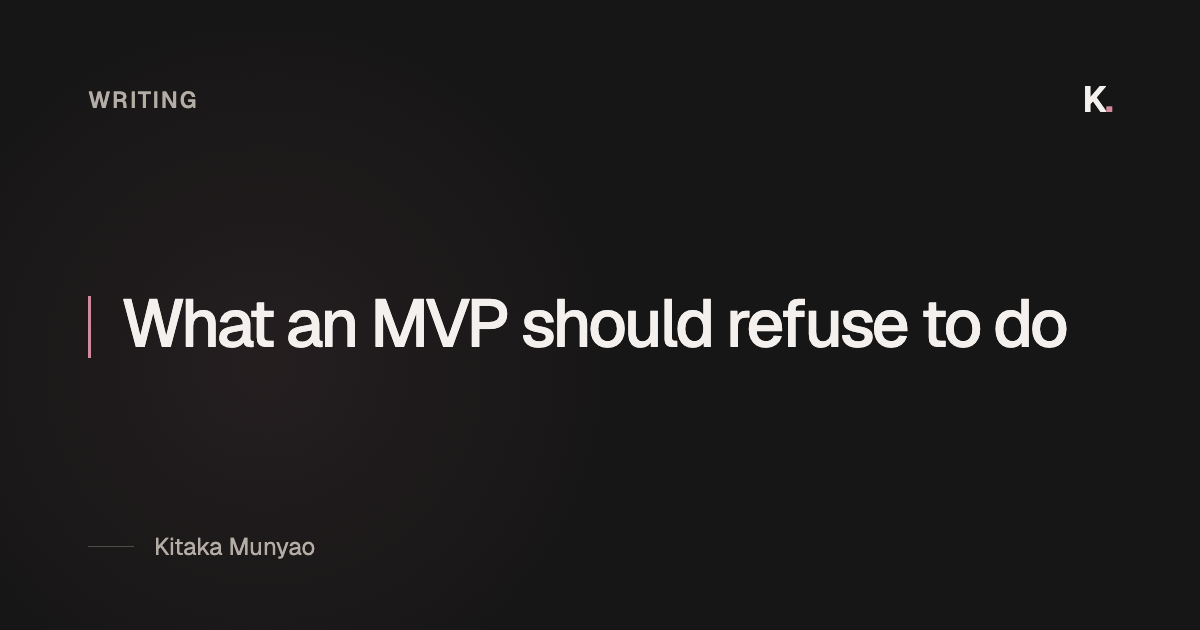
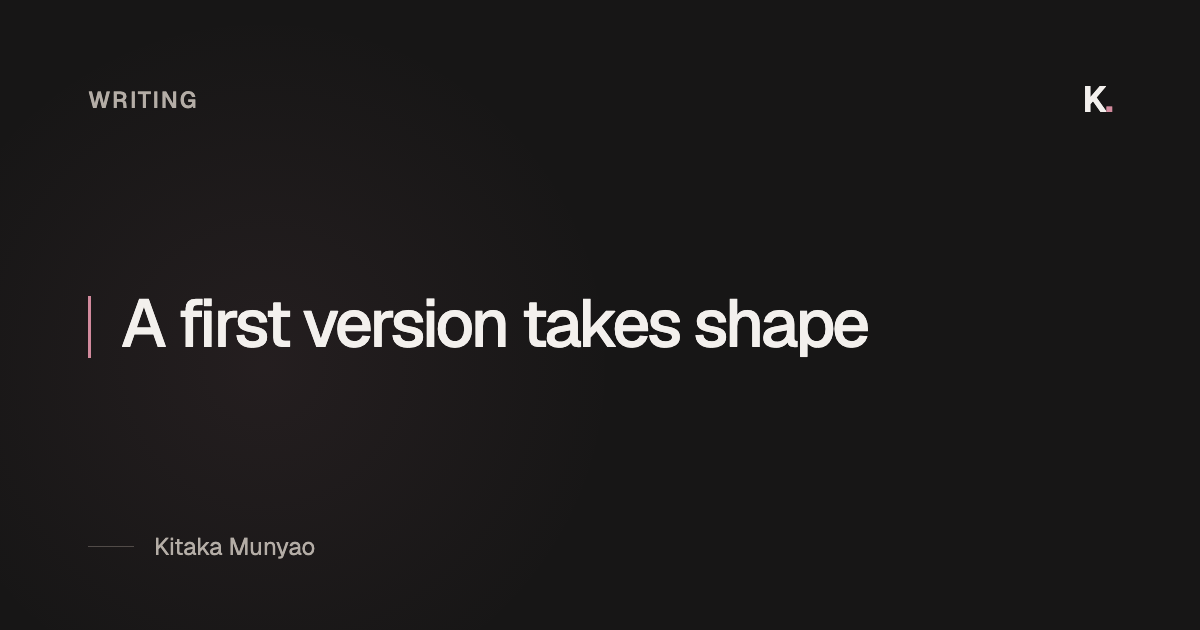
refactor(writing): ground MVP article in product decisions

Changed region(s): [[0.0925, 0.4524, 0.8942, 0.573]]

diff --git a/src/content/articles/what-an-mvp-should-refuse.ts b/src/content/articles/what-an-mvp-should-refuse.ts
@@ -3,125 +3,121 @@ import type { Article } from "./types";
 export const whatAnMvpShouldRefuse: Article = {
   slug: "what-an-mvp-should-refuse",
 
-  title: "What an MVP should refuse to do",
+  title: "A first version takes shape",
 
   description:
-    "Why building a useful first product means making deliberate decisions about what it will not do yet.",
+    "Notes from building a private product around one accountability loop before its first pilot.",
 
   publishedAt: "2026-09-02",
 
-  readingTime: "7 min read",
+  readingTime: "5 min read",
 
   sections: [
     {
       type: "paragraphs",
       paragraphs: [
-        "I am building a private MVP around a real operational problem. The product is still in development, which means there are more things it could become than things it needs to be today.",
-        "That makes adding features surprisingly easy to justify. A messaging system could keep conversations in one place. Payment processing could remove a manual step. Notifications, imports, analytics, integrations, and AI could each make part of the experience feel more complete.",
-        "None of those ideas is inherently bad. The problem is that every one of them asks the product to carry another assumption before the central workflow has been proved useful.",
-        "I have therefore spent as much time deciding what the MVP should refuse to do as deciding what it should include.",
+        "The product began with a coaching operations problem, not a missing fitness feature. The information needed to run the work lived in too many places: conversations, spreadsheets, notes, payment records, and other applications.",
+        "The useful morning question was much more direct: who is training today, who completed their work, who has not checked in, who needs a response, and whose package or payment needs attention?",
+        "Once I began building, nearly every part of that question suggested another product. Conversation suggested chat. Payment records suggested payment processing. Progress suggested analytics. Repeated administration suggested automation. A future client list suggested bulk imports and a platform for more than one coach.",
+        "The hard part hasn't been thinking of features. It has been deciding which ideas would help test the product and which would keep me from knowing whether the basic thing was useful.",
       ],
     },
 
     {
       type: "paragraphs",
-      heading: "Refusal is not a lack of ambition",
+      heading: "The prototype made everything look close",
       paragraphs: [
-        "An MVP is often described as the smallest version of a product that can be released. That can make scope reduction sound like subtraction: begin with the complete idea, then remove features until it fits the available time.",
-        "I find it more useful to begin with the change the product needs to make possible. In this case, the important loop is simple: work is assigned, the person completing it records useful information, the person responsible can see what needs attention, and both can understand what should happen next.",
-        "A feature belongs in the first product only if that loop depends on it or if leaving it out would create an unacceptable risk. Everything else needs to earn its way back in.",
-        "Refusing work is therefore not about making the product less ambitious. It protects the question the MVP exists to answer from being buried beneath several easier but less important questions.",
+        "The prototype became broad quite quickly. It had a dashboard, clients, workouts, check-ins, progress, a calendar, and payment views. Typed fictional records made the complete experience inspectable before a database or authentication existed.",
+        "That helped the coach and me discuss the shape of the product. It also made the product look further along than it was. A screen backed by a fixture can make a workflow feel almost finished. Persistence asks less visible questions: who owns this record, who may change it, what happens to its history, what should be derived rather than stored, and what happens when an operation fails halfway through?",
+        "Moving from prototype screens to persistent client workflows made the difference between visible scope and operational scope difficult to ignore. The interface was not a list of nearly completed features. It was a map of decisions still waiting to be made.",
       ],
     },
 
     {
       type: "paragraphs",
-      heading: "Do not rebuild what already works",
+      heading: "The loop I need to prove",
       paragraphs: [
-        "The product's users already have ways to talk to one another. Their conversations may be spread across tools, but replacing those tools is not the problem I am currently trying to solve.",
-        "Building chat would introduce message delivery, notifications, attachments, moderation, retention, privacy, and expectations about response time. A small text box would be easy to draw and much harder to support responsibly.",
-        "For the MVP, structured information belongs in the product, and general conversation can continue through an existing messaging service. A clear route out of the product is enough.",
-        "That boundary may eventually feel inconvenient. If people repeatedly lose important context between the two places, that would be evidence for reconsidering it. Until then, rebuilding a familiar communication tool would add surface area without proving the central idea.",
+        "I eventually reduced the first product to an accountability loop. A coach assigns work. A client sees what to do and records what happened. The coach can distinguish ordinary progress from something requiring attention. Both can see enough context to decide what happens next.",
+        "That loop still contains difficult work. A skipped workout is not the same as one the system considers missed. A report of pain should become visible without turning the product into a diagnostic tool. A corrected submission should not quietly erase what was shared before it. Attention needs a reason a person can understand, not an unexplained score.",
+        "That became my working boundary: if the accountability loop does not depend on something, it has to justify why it belongs in the first release.",
       ],
     },
 
     {
       type: "paragraphs",
-      heading: "Record a process before trying to own it",
+      heading: "WhatsApp can stay",
       paragraphs: [
-        "Payments created a similar decision. The product needs to show what was paid, what remains outstanding, and when a renewal may need attention. It does not need to move money to test whether that information helps someone run the work.",
-        "Recording an externally received payment supports the operational workflow. Processing one would add provider integration, failure recovery, reconciliation, refunds, security obligations, and a much larger consequence when something goes wrong.",
-        "The distinction matters beyond payments. A product can help someone understand and coordinate an existing process before it automates the process itself. That often provides enough value to test the underlying model while keeping the most consequential actions where they already work.",
+        "The coach and client already know how to talk to one another. Building chat would not prove that the accountability loop works. It would also require message delivery, notifications, attachments, retention, privacy, and expectations about response time.",
+        "The boundary I chose is narrower. Structured check-ins, workout feedback, and coach responses belong in the product because they affect the shared record. General conversation can remain in WhatsApp, with a clear route there when it is needed.",
+        "This is not automatically the correct long-term boundary. If the pilot shows that people repeatedly lose important context between the two places, the decision should change. For now, an existing tool carries the part of the problem the MVP does not need to own.",
       ],
     },
 
     {
       type: "paragraphs",
-      heading: "Do not collect data simply because it may be useful",
+      heading: "Recording payments is enough for now",
       paragraphs: [
-        "The MVP may eventually hold personal, health-related, and financial information. That makes an apparently useful field more than a design choice. If the product collects that information, it becomes responsible for who can see it, how long it remains, how it is corrected, how it is backed up, and what happens when access should end.",
-        "Authentication is only the beginning. Authorisation has to follow the person and the record through every read and write. Private information must not appear in another role's view merely because the interface hides the field. Retention, recovery, and operational access still need deliberate answers.",
-        "The project therefore uses fictional data while those boundaries are being built and reviewed. Progress photos, real payment references, and unnecessary medical detail remain outside the product. The first pilot can test language and workflow without asking participants to surrender information the system is not ready to protect.",
-        "Data minimisation can look like a missing feature. In an MVP, it can also be evidence that the product understands the cost of what it asks people to trust it with.",
+        "Payments created another tempting expansion. The coach needs to know whether a payment was recorded, what balance remains, and whether a package is approaching renewal. My first instinct was to integrate the payment provider because the records originate there.",
+        "Instead, the MVP records evidence of money received elsewhere. It does not move money. That is enough to test whether bringing payment and package context into the same operational view is useful.",
+        "Processing payments would make the product responsible for provider failures, reconciliation, refunds, security, and the consequences of getting a transaction wrong. That may become worthwhile, but it is a different problem from helping the coach see what needs attention today.",
       ],
     },
 
     {
       type: "paragraphs",
-      heading: "Refuse scale that has not arrived",
+      heading: "Real data can wait",
       paragraphs: [
-        "The product currently serves one operator and a small client group. It could be designed immediately for multiple businesses, configurable organisations, complex permissions, and bulk migration. Doing so would turn imagined future needs into present architecture.",
-        "The current model keeps ownership boundaries explicit without pretending multi-tenancy already exists. A manageable manual import is preferable to building a general import system before the data model has met real records. Configuration stays close to the rules that genuinely need to vary rather than becoming a framework for every possible customer.",
-        "This is not an argument for code that cannot change. Repository boundaries, database constraints, and focused domain models make later change more manageable. The difference is that they support a known direction without implementing an unknown product.",
+        "There is a similar boundary around data. This product may eventually hold health-related, progress, and financial information. Authentication alone does not make collecting that information responsible.",
+        "The coach and client workspaces now have separate server-owned roles. Client identity comes from the authenticated session rather than from a URL. Reads and writes are constrained again at the repository boundary, and private coach notes are excluded from client queries.",
+        "Even with those controls, the MVP still uses fictional records. Retention, backups, recovery, operational access, and users' privacy expectations need further review. The pilot can test comprehension and workflow without asking participants to enter real injuries, payment references, or progress photos.",
+        "Calling that a limitation is accurate. Treating it as a reason to collect real data anyway would confuse technical progress with readiness.",
       ],
     },
 
     {
       type: "paragraphs",
-      heading: "Novel features still need an ordinary reason to exist",
+      heading: "Import by hand first",
       paragraphs: [
-        "AI recommendations, wearable data, and advanced analytics are easy to imagine in this kind of product. They also depend on sufficient trustworthy data, a clear decision they improve, and a way to recognise when their output is wrong or unhelpful.",
-        "Adding them early would make the MVP appear more capable while making its evidence harder to interpret. If someone returns because a basic accountability loop is useful, that teaches me something about the product. If the same experience includes generated recommendations, automated reminders, and several data sources, it becomes less clear what created the value or the frustration.",
-        "A fashionable capability should face the same question as any other feature: which observed problem does it solve now? If the answer depends on behaviour the product has not yet seen, waiting is part of the design.",
+        "I nearly made the import process larger too. There is existing information to bring into the product, and a general importer sounds more efficient than entering it manually. It would also require me to decide the shape of records and exceptions before the model has encountered them.",
+        "The MVP will begin with a manageable manual import. The database can retain a source identity so a future import doesn't duplicate the same record, but the full bulk workflow can wait. The awkward manual path will show which fields are genuinely consistent, which need interpretation, and which should not be carried over at all.",
       ],
     },
 
     {
-      type: "quote",
-      quote:
-        "A feature belongs in the MVP when the core workflow depends on it—not merely because the finished product might contain it.",
-    },
-
-    {
       type: "paragraphs",
-      heading: "A refusal should have a way back in",
+      heading: "One coach is enough for now",
       paragraphs: [
-        "Saying “not now” is only useful when it is more precise than a preference. Each deferred feature should have a reason, an alternative, and evidence that would justify revisiting it.",
-        "Chat stays out while existing communication remains sufficient; repeated loss of important context may bring it back. Payment processing stays out while manual recording is manageable; reconciliation failures or operational cost may change that decision. Bulk import waits until a small manual migration reveals which fields and exceptions actually exist.",
-        "These conditions prevent the backlog from becoming either a promise or a graveyard. The team does not have to act as though every early idea will eventually be built. It only needs to remain attentive to the problems that the current boundary creates.",
+        "I have made the same decision about multi-coach tenancy. The data model should not prevent it forever, but this MVP is being built with one coach. Designing an organisation platform now would mean solving for users who do not yet exist.",
       ],
     },
 
     {
       type: "list",
-      heading: "Questions I use when refusing scope",
       items: [
-        "Which user behaviour or product outcome depends on this now?",
-        "What existing process can carry the need during the MVP?",
-        "What new failure modes and responsibilities would the feature introduce?",
-        "Can the underlying assumption be tested without building the complete capability?",
-        "What evidence would make the decision worth revisiting?",
-        "If the feature succeeds, will we understand what it taught us?",
+        "Does the accountability loop need this?",
+        "What can carry the need during the pilot?",
+        "What would I have to observe before changing my mind?",
       ],
     },
 
     {
       type: "paragraphs",
-      heading: "The boundary is part of the product",
+      heading: "The boundary I am least sure about",
       paragraphs: [
-        "The MVP is not finished, and its current refusals have not yet been validated by a live pilot. Some will survive; others will become the next obvious work once people use the complete workflow.",
-        "What they provide now is a clearer experiment. The product can test whether centralising the essential work helps people understand what needs attention and what should happen next. It can do that without also becoming a messaging platform, a payment processor, an analytics product, and an integration hub.",
-        "A good MVP does not need to look like a smaller version of everything the product may become. It needs to be complete enough to produce useful evidence and disciplined enough that the team can understand what that evidence means.",
+        "Notifications are the boundary I am least certain about. An accountability product cannot rely on people remembering to open it, but reminders can become noise remarkably quickly.",
+        "I have left them for the pilot because I need to learn which moments genuinely deserve interruption before deciding how the product should create it. A missed workout, an unanswered check-in, and an approaching renewal may all matter, but that does not mean each needs an immediate notification.",
+        "This is the kind of refusal I find useful. It does not assume the feature is unnecessary. It gives me something specific to observe before I build it.",
+      ],
+    },
+
+    {
+      type: "paragraphs",
+      heading: "What the pilot needs to answer",
+      paragraphs: [
+        "The MVP is not finished, and a live pilot has validated none of these boundaries. That is precisely why I want the first release to ask a recognisable question.",
+        "Can one shared accountability loop help a coach and client understand what has happened, what needs attention, and what should happen next?",
+        "If the answer is no, chat, payments, integrations, and AI will not rescue the product. If the answer is yes, the places where the current boundaries create friction will tell me much more clearly what deserves to be built next.",
+        "A useful MVP is not a small imitation of the eventual product. It is a deliberate piece of software that can still teach you when to change your mind.",
       ],
     },
   ],

diff --git a/tests/metadata.spec.ts b/tests/metadata.spec.ts
@@ -28,7 +28,7 @@ const publicRoutes = [
   },
   {
     path: "/writing/what-an-mvp-should-refuse",
-    title: "What an MVP should refuse to do | Kitaka",
+    title: "A first version takes shape | Kitaka",
     image: "/social/what-an-mvp-should-refuse.png",
   },
   {

diff --git a/tests/routes.spec.ts b/tests/routes.spec.ts
@@ -29,7 +29,7 @@ const routes = [
   {
     name: "MVP scope article",
     path: "/writing/what-an-mvp-should-refuse",
-    heading: "What an MVP should refuse to do",
+    heading: "A first version takes shape",
   },
   {
     name: "Harvest case study",

diff --git a/tests/navigation.spec.ts b/tests/navigation.spec.ts
@@ -33,7 +33,7 @@ const caseStudies = [
 
 const articles = [
   {
-    title: "What an MVP should refuse to do",
+    title: "A first version takes shape",
     path: "/writing/what-an-mvp-should-refuse",
   },
   {
